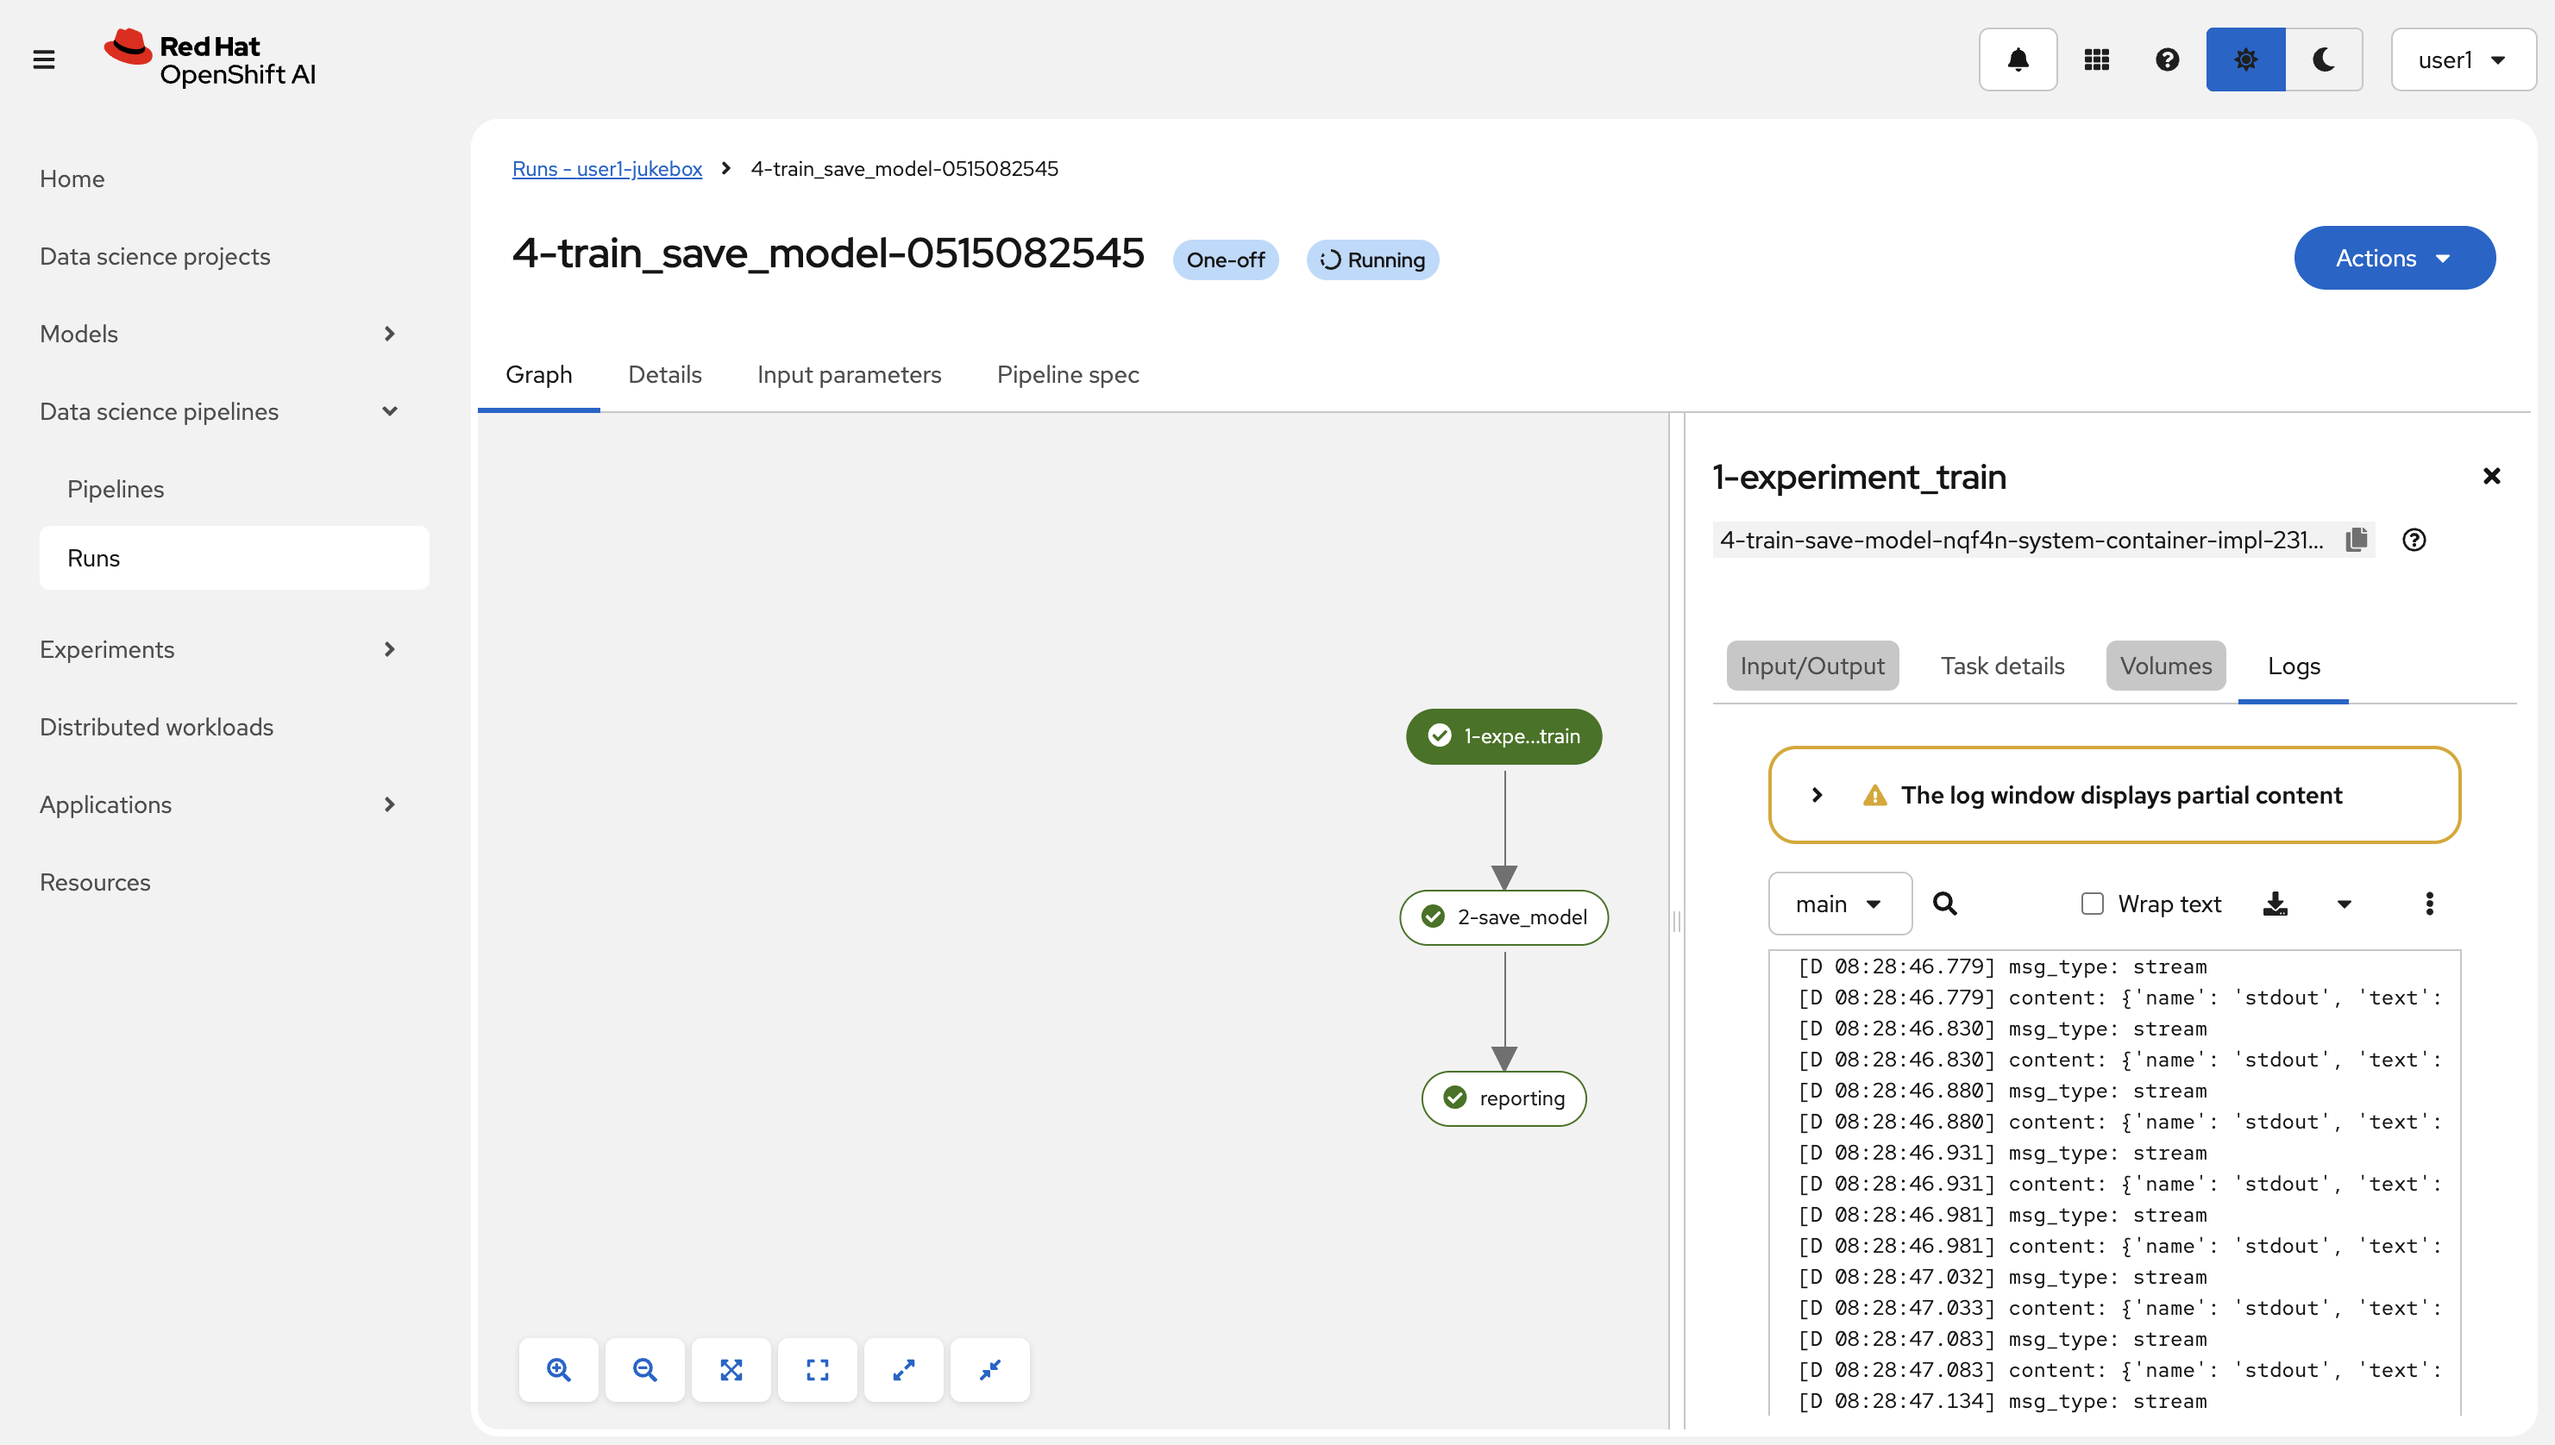
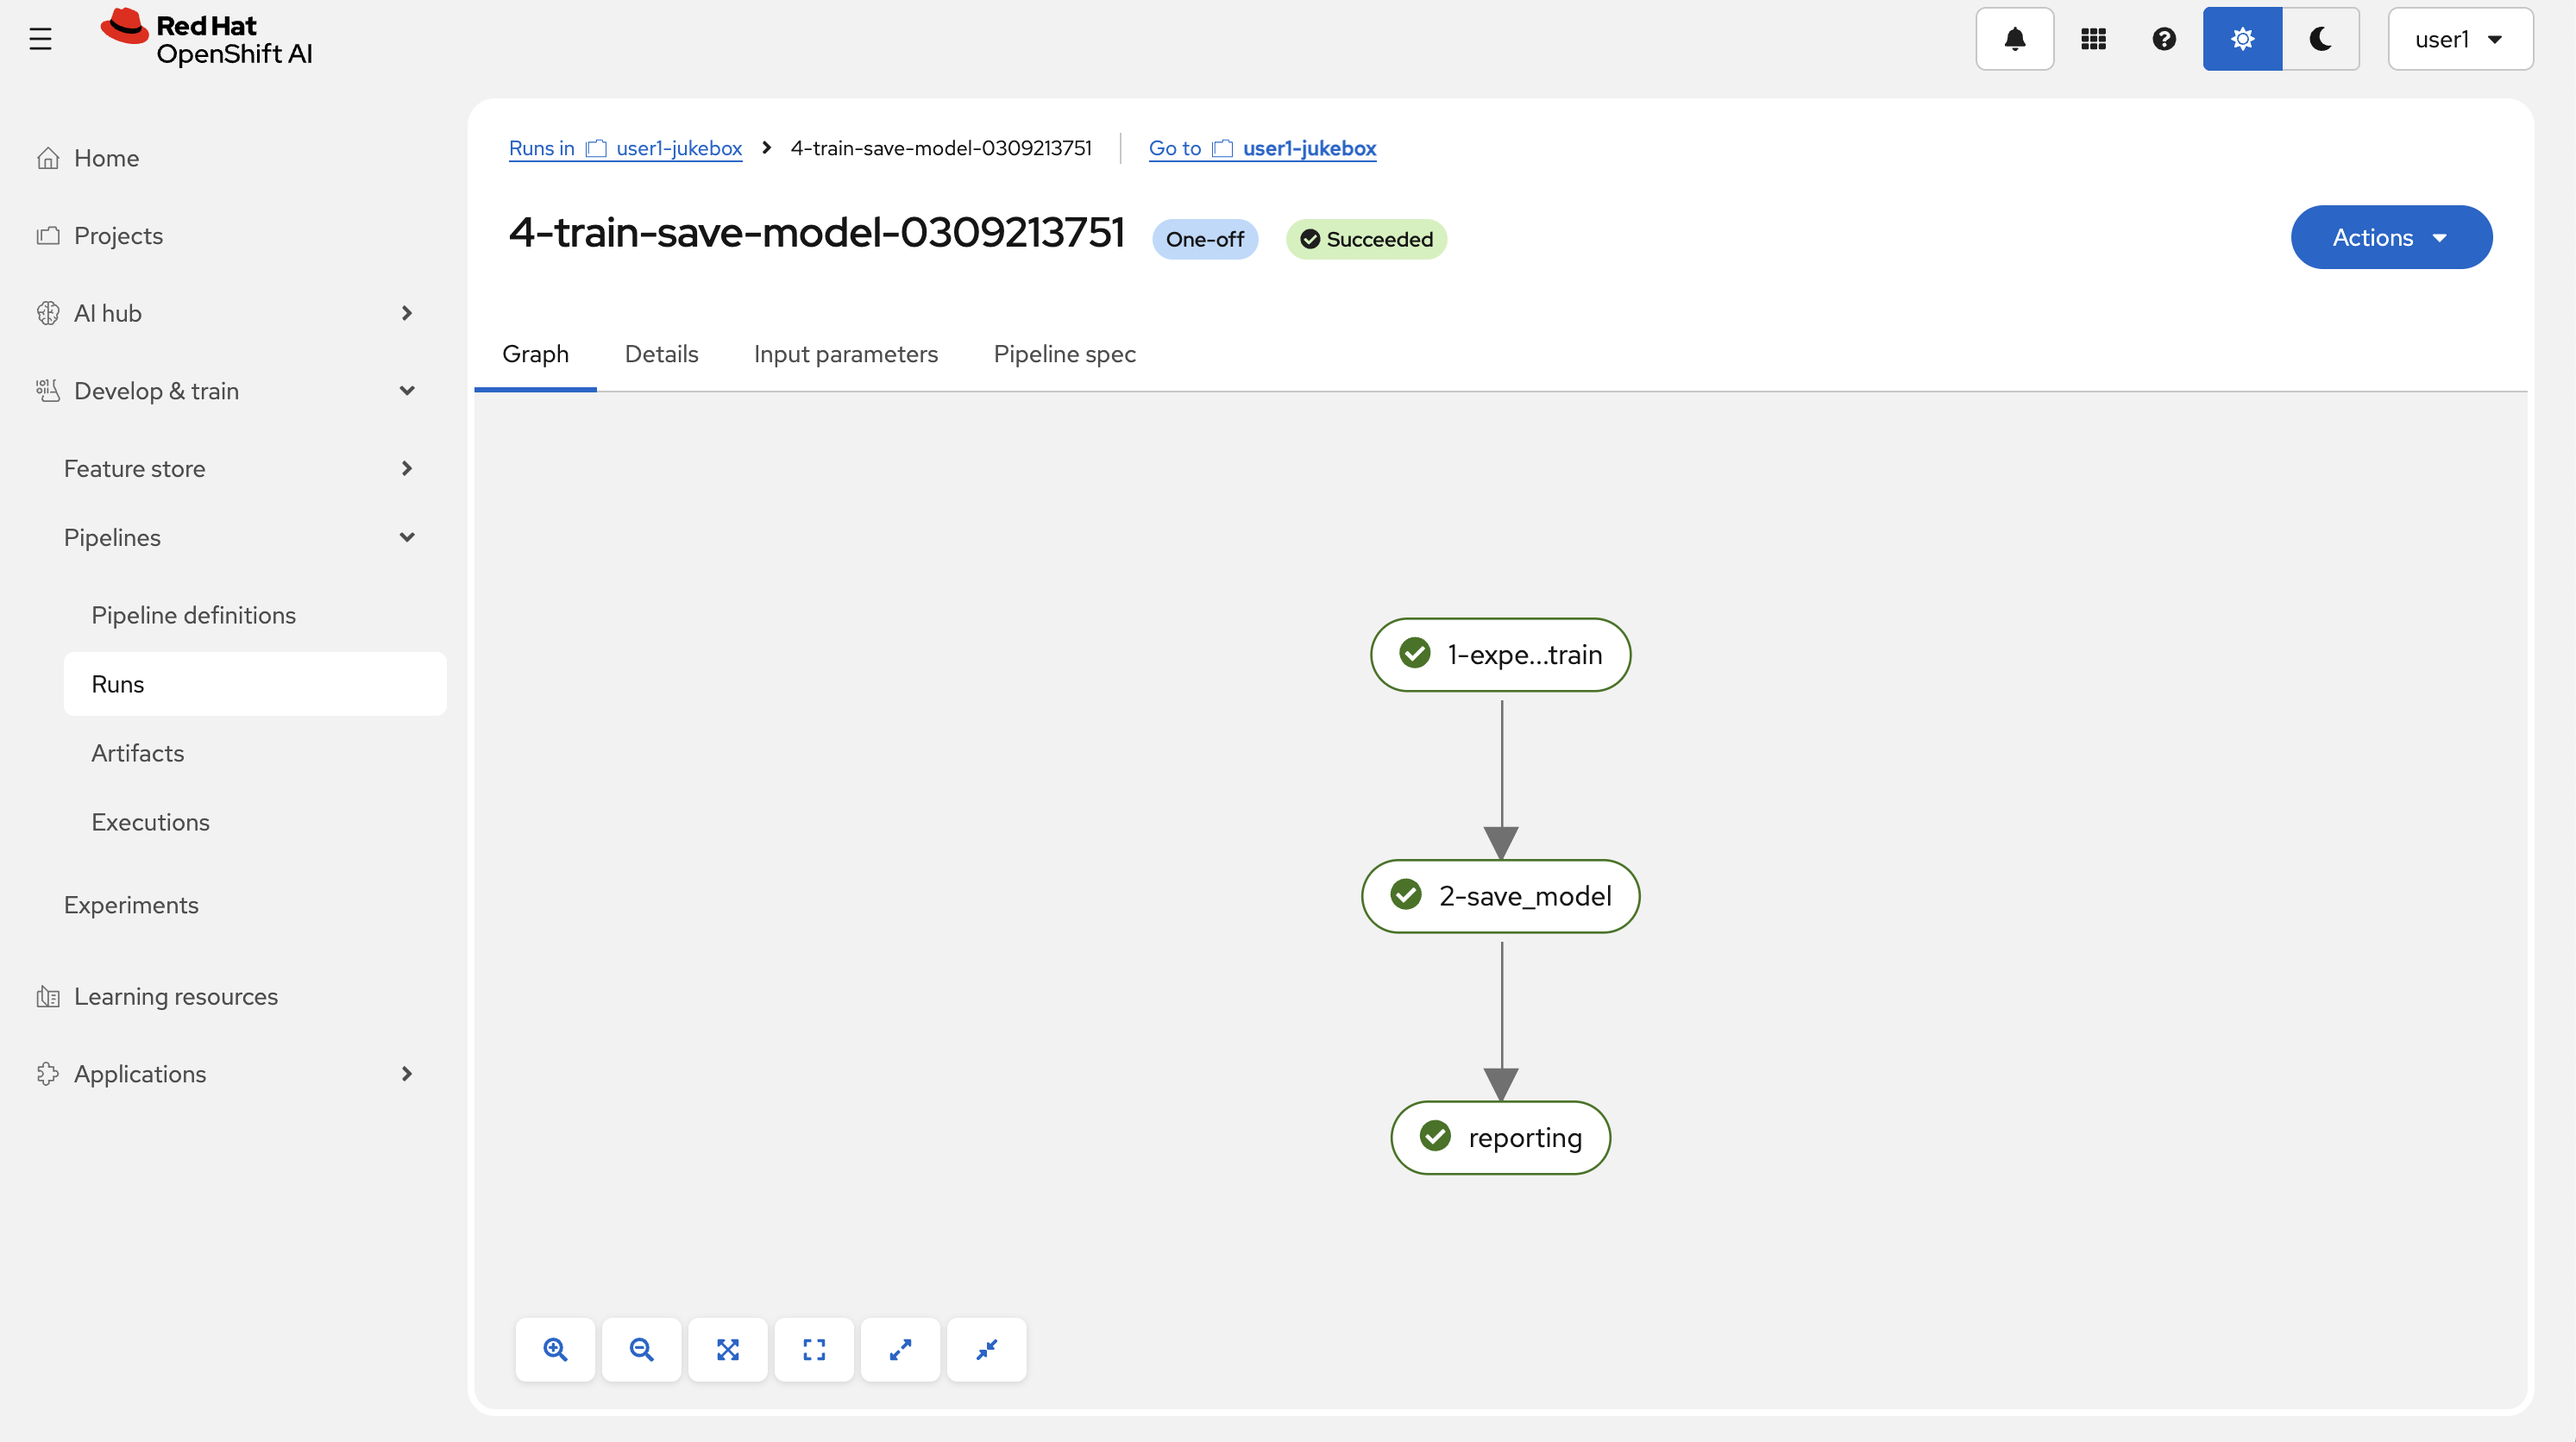
🎶second chapter updates🎶

diff --git a/docs/3-from-studio-to-stage/1-gitops.md b/docs/3-from-studio-to-stage/1-gitops.md
@@ -12,13 +12,13 @@ In the context of MLOps, we’ll leverage Argo CD to deploy our tools and models
 
 Let’s create a new workbench next to the existing Jupyter Notebook `<USER_NAME>-hitmusic-wb` workbench (Standard Data Science) in our `<USER_NAME>-jukebox` project and get started!
 
-1. Go to `OpenShift AI` > `Data Science Projects` > `<USER_NAME>-jukebox` >  `Workbenches` and click `Create workbench`
+1. Go to `OpenShift AI` dashboard > `Projects` > `<USER_NAME>-jukebox` >  `Workbenches` and click `Create workbench`
 
   Select a name you want, could be something like `<USER_NAME>-mlops-toolings` 
 
     For Notebook Image: 
 
-    - Image selection: `code-server`
+    - Image selection: `Code Server | Data Science | CPU | Python 3.12`
 
     Leave the rest as the default and hit `Create workbench`.
   

diff --git a/docs/2-in-the-rhythm-of-data/1b-kfp.md b/docs/2-in-the-rhythm-of-data/1b-kfp.md
@@ -55,7 +55,7 @@ Now that you know what the pipeline is supposed to do, let's go ahead and run it
     ```
 
 
-3. Go to OpenShift AI Dashboard. Select `Experiments` from the left menu and go to `Experiments and runs`. You'll see there is one run with the status `Running`. Click to see the details of the pipeline run.
+3. Go to OpenShift AI Dashboard. From the left menu, under `Develop & train`, and go to `Pipelines` > `Runs`. You'll see there is one run with the status `Running`. Click to see the details of the pipeline run.
 
     ![experiments.png](./images/experiments.png)
 
